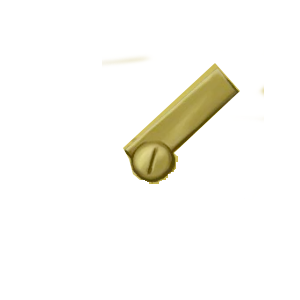
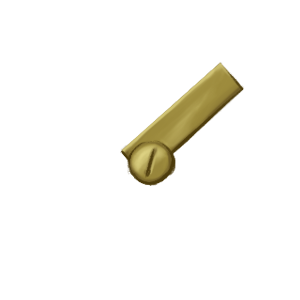
Add assets for winding handles and ratchet

diff --git a/app/views/interactive/lodestone/LodestoneInteractView.js b/app/views/interactive/lodestone/LodestoneInteractView.js
@@ -125,9 +125,11 @@ define([
                             this.zoomHandleView = new RotateHandleView({
                                 el: $('#controls-holder'),
                                 model: this.windModel,
-                                image: "img/objects/lodestone/ratchet-handle.png"
+                                image: "img/objects/lodestone/RatchetHandle.png",
+                                oneWay: true
                             });
                             this.zoomHandleView.render();
+                            this.updateRatchetArm();
                             break;
                             
                         case 'adding':
@@ -238,12 +240,12 @@ define([
             },
             
             updateRatchetArm: function() {
-                var numTeeth = 22;
+                var numTeeth = 21;
                 var degPerTeeth = Math.floor(360/numTeeth);
-                var phase =  this.windModel.attributes.angle % degPerTeeth;
-                var armInitialAngle = 0;
+                var phase =  (5 + this.windModel.attributes.angle) % degPerTeeth;
+                var armInitialAngle = 5;
                 
-                var armAngle = armInitialAngle - phase;
+                var armAngle = (0.3 * (armInitialAngle - phase)) - 5;
                 $('#ratchet-arm').css('transform', 'rotate(' + armAngle + 'deg)');
                 
             },

diff --git a/sass/lodestone.scss b/sass/lodestone.scss
@@ -34,10 +34,10 @@ $frameOffsetY: -35px;
     bottom: 0px;
     z-index: 100;
     #ratchet-base {
-        background: url(../img/objects/lodestone/ratchet.png);
+        background: url(../img/objects/lodestone/BrassPlate.jpg);
         background-size: contain;
         background-repeat: no-repeat;
-        width: 70%;
+        width: 75%;
         margin-left: auto;
         margin-right: auto;
         height: 165px;
@@ -45,8 +45,8 @@ $frameOffsetY: -35px;
         top:136px;
         #ratchet-arm {
             position: relative;
-            top: -17px;
-            left: -20px;
+            top: -22px;
+            left: -26px;
             width: 67%;
         }
     }
@@ -58,8 +58,8 @@ $frameOffsetY: -35px;
             &#handle {
             //rotating key
             position: relative;
-            left: 35px;
-            top: -19px;        
+            left: 29px;
+            top: -24px;        
         }
       }
       .palette-choice {
@@ -185,14 +185,14 @@ $frameOffsetY: -35px;
 
   img.lodestone-key {
     position: absolute;
-    bottom: 204px;
+    bottom: 201px;
     left: 40px;
     z-index: 100;
     height: 40px;
     &#lodestone-Rkey {
       left: 45px;
-      bottom: 196px;
-      transform: rotate(70deg);
+      bottom: 195px;
+      transform: rotate(63deg);
     }
   }
   

diff --git a/app/views/interactive/clock/RotateHandleView.js b/app/views/interactive/clock/RotateHandleView.js
@@ -28,6 +28,7 @@ define([
             this.listenTo(this.model, 'change', _.bind(function(){
                 this.setAngle(this.model.attributes.angle);
             }, this));
+            this.oneWay = !!params.oneWay;
 
         },
 
@@ -129,7 +130,6 @@ define([
                 var pivotToTouch = touchPos.clone().subtract(this.pivot);
                 var angleChange = pivotToTouch.horizontalAngleDeg() - pivotToPrevTouch.horizontalAngleDeg();
 
-
                 //account for where angle flips from -180 to +180
                 if (angleChange > 180) {
                     angleChange -= 360;
@@ -138,8 +138,12 @@ define([
                     angleChange += 360;
                 }
 
-
-                this.model.set({angle: this.model.attributes.angle + angleChange});
+                if(angleChange < 0 && this.oneWay) {
+                    //don't update the angle change if this is a one-way ratchet.
+                } else {
+                    this.model.set({angle: this.model.attributes.angle + angleChange});
+                }
+                
                 this.model.trigger('force-change', this.model);
 
                 this.setAngle(this.model.attributes.angle);
